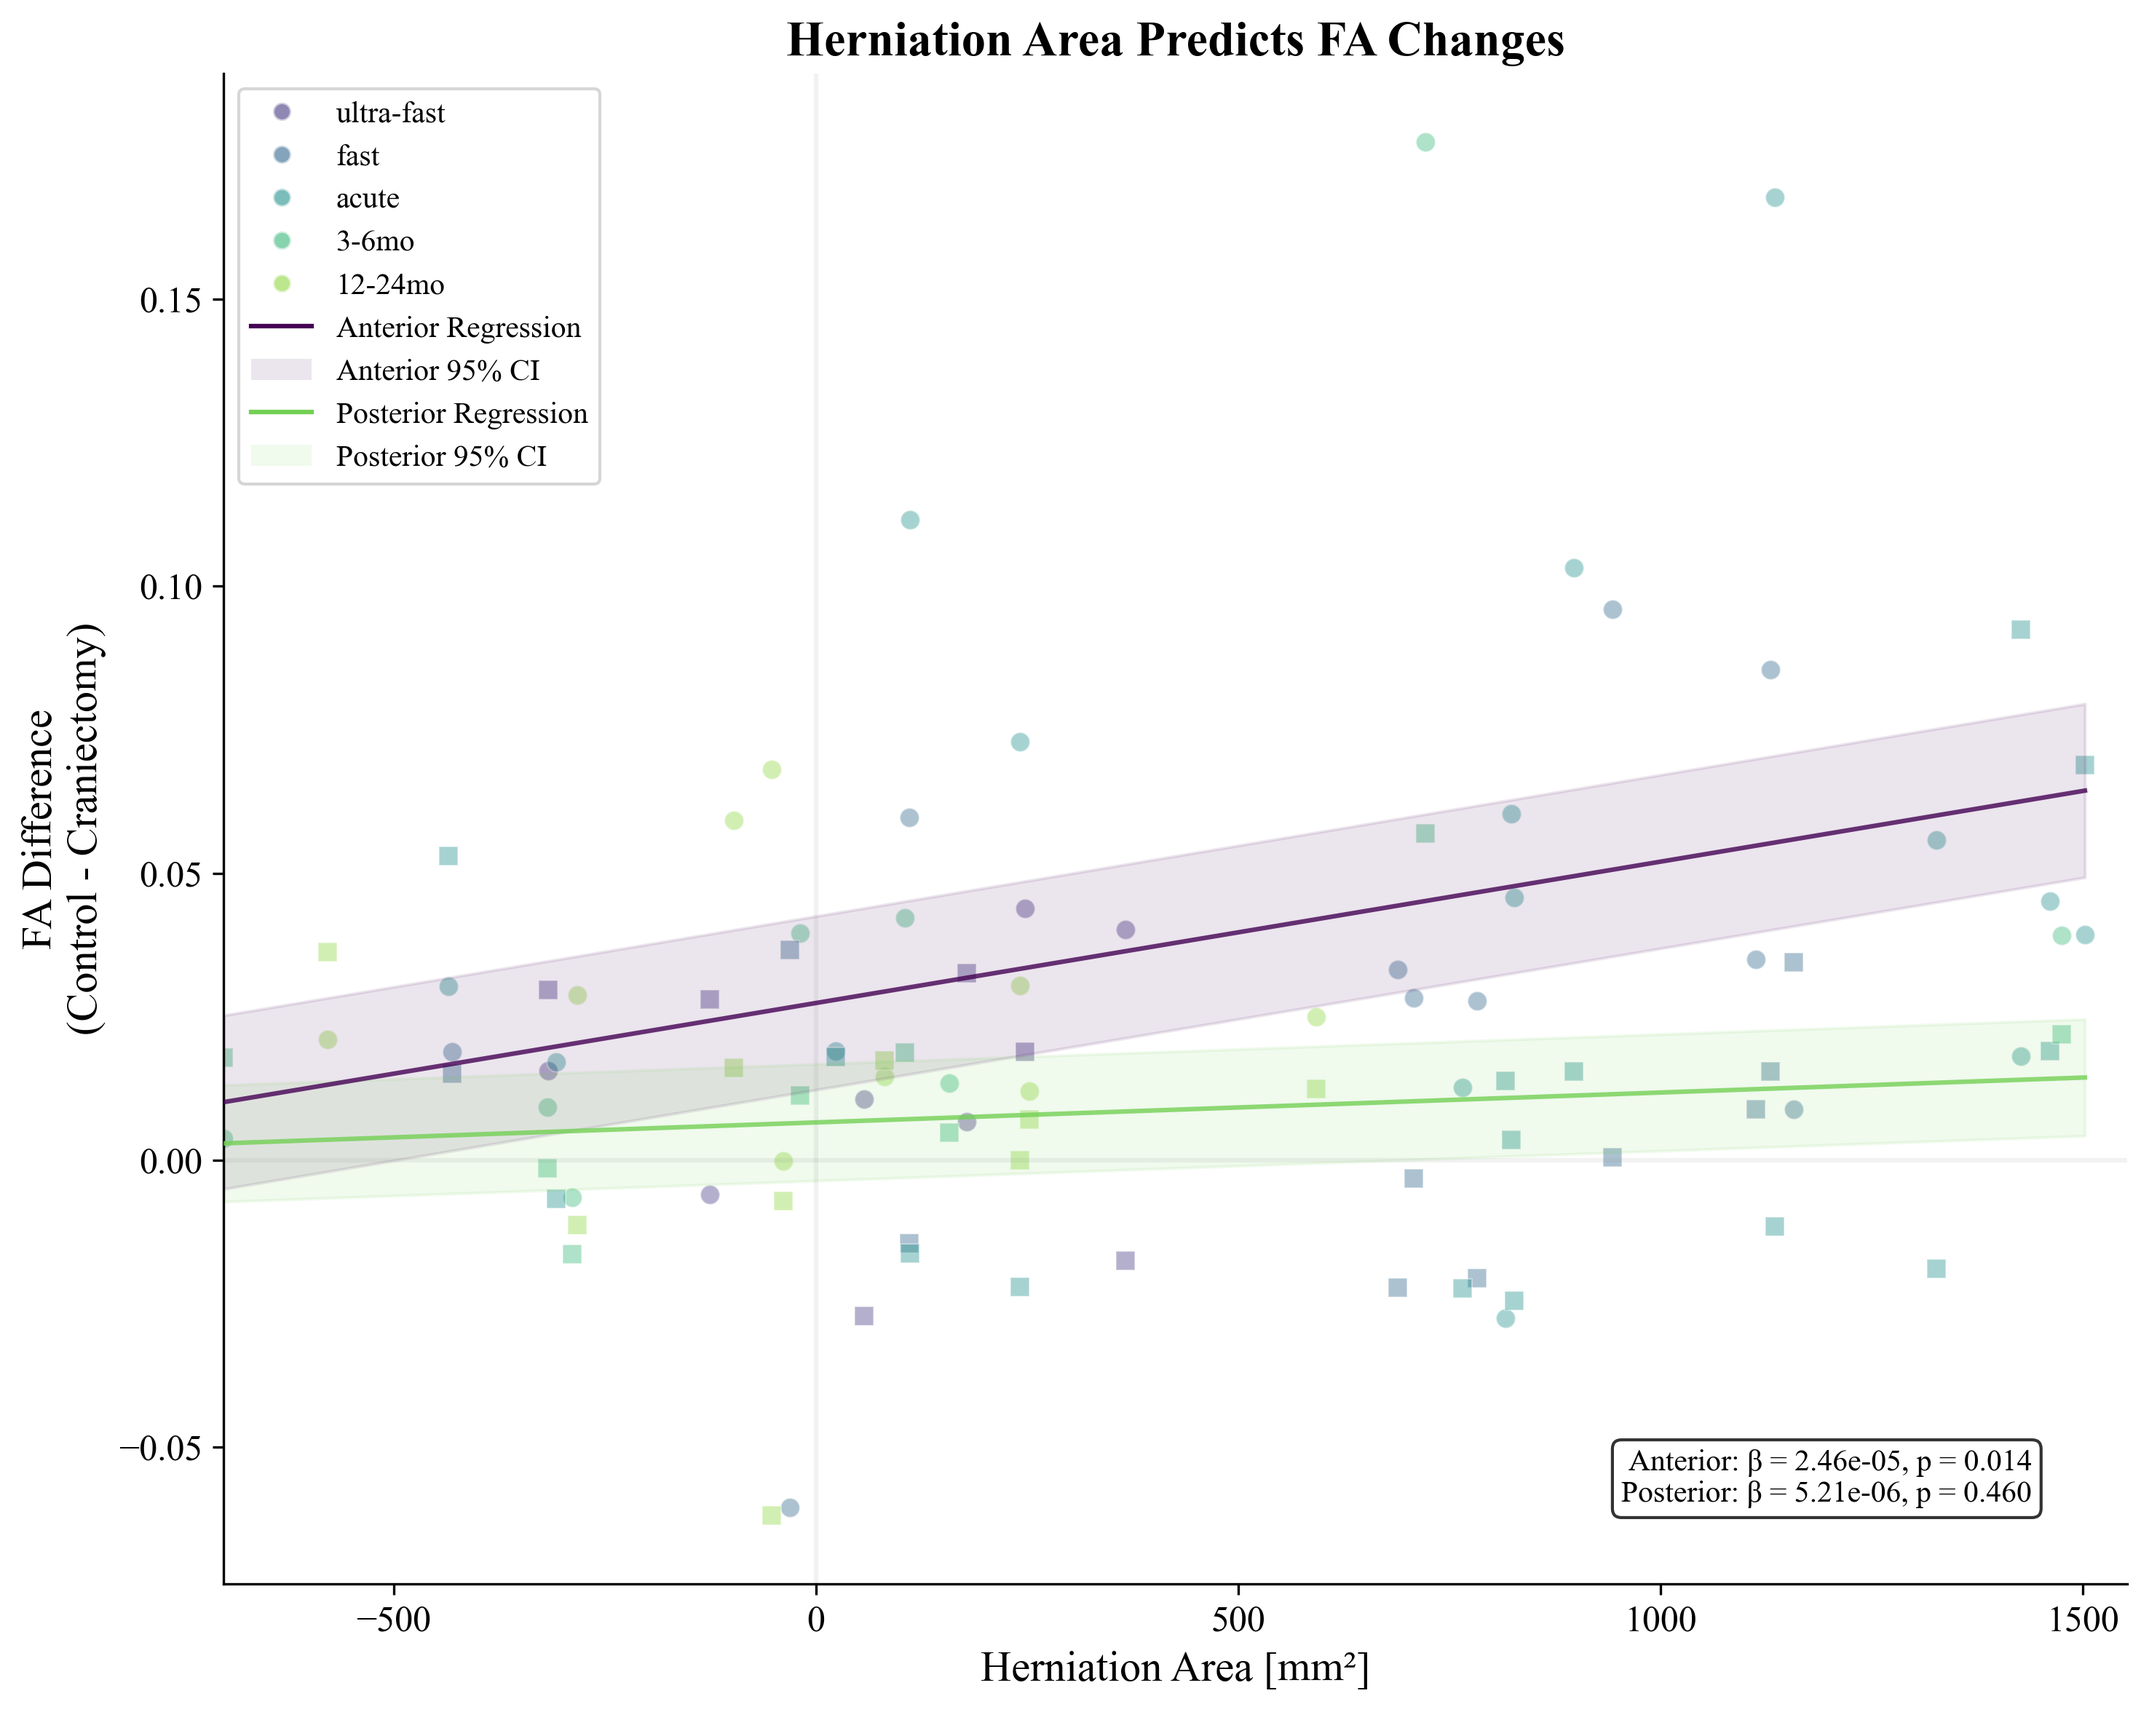
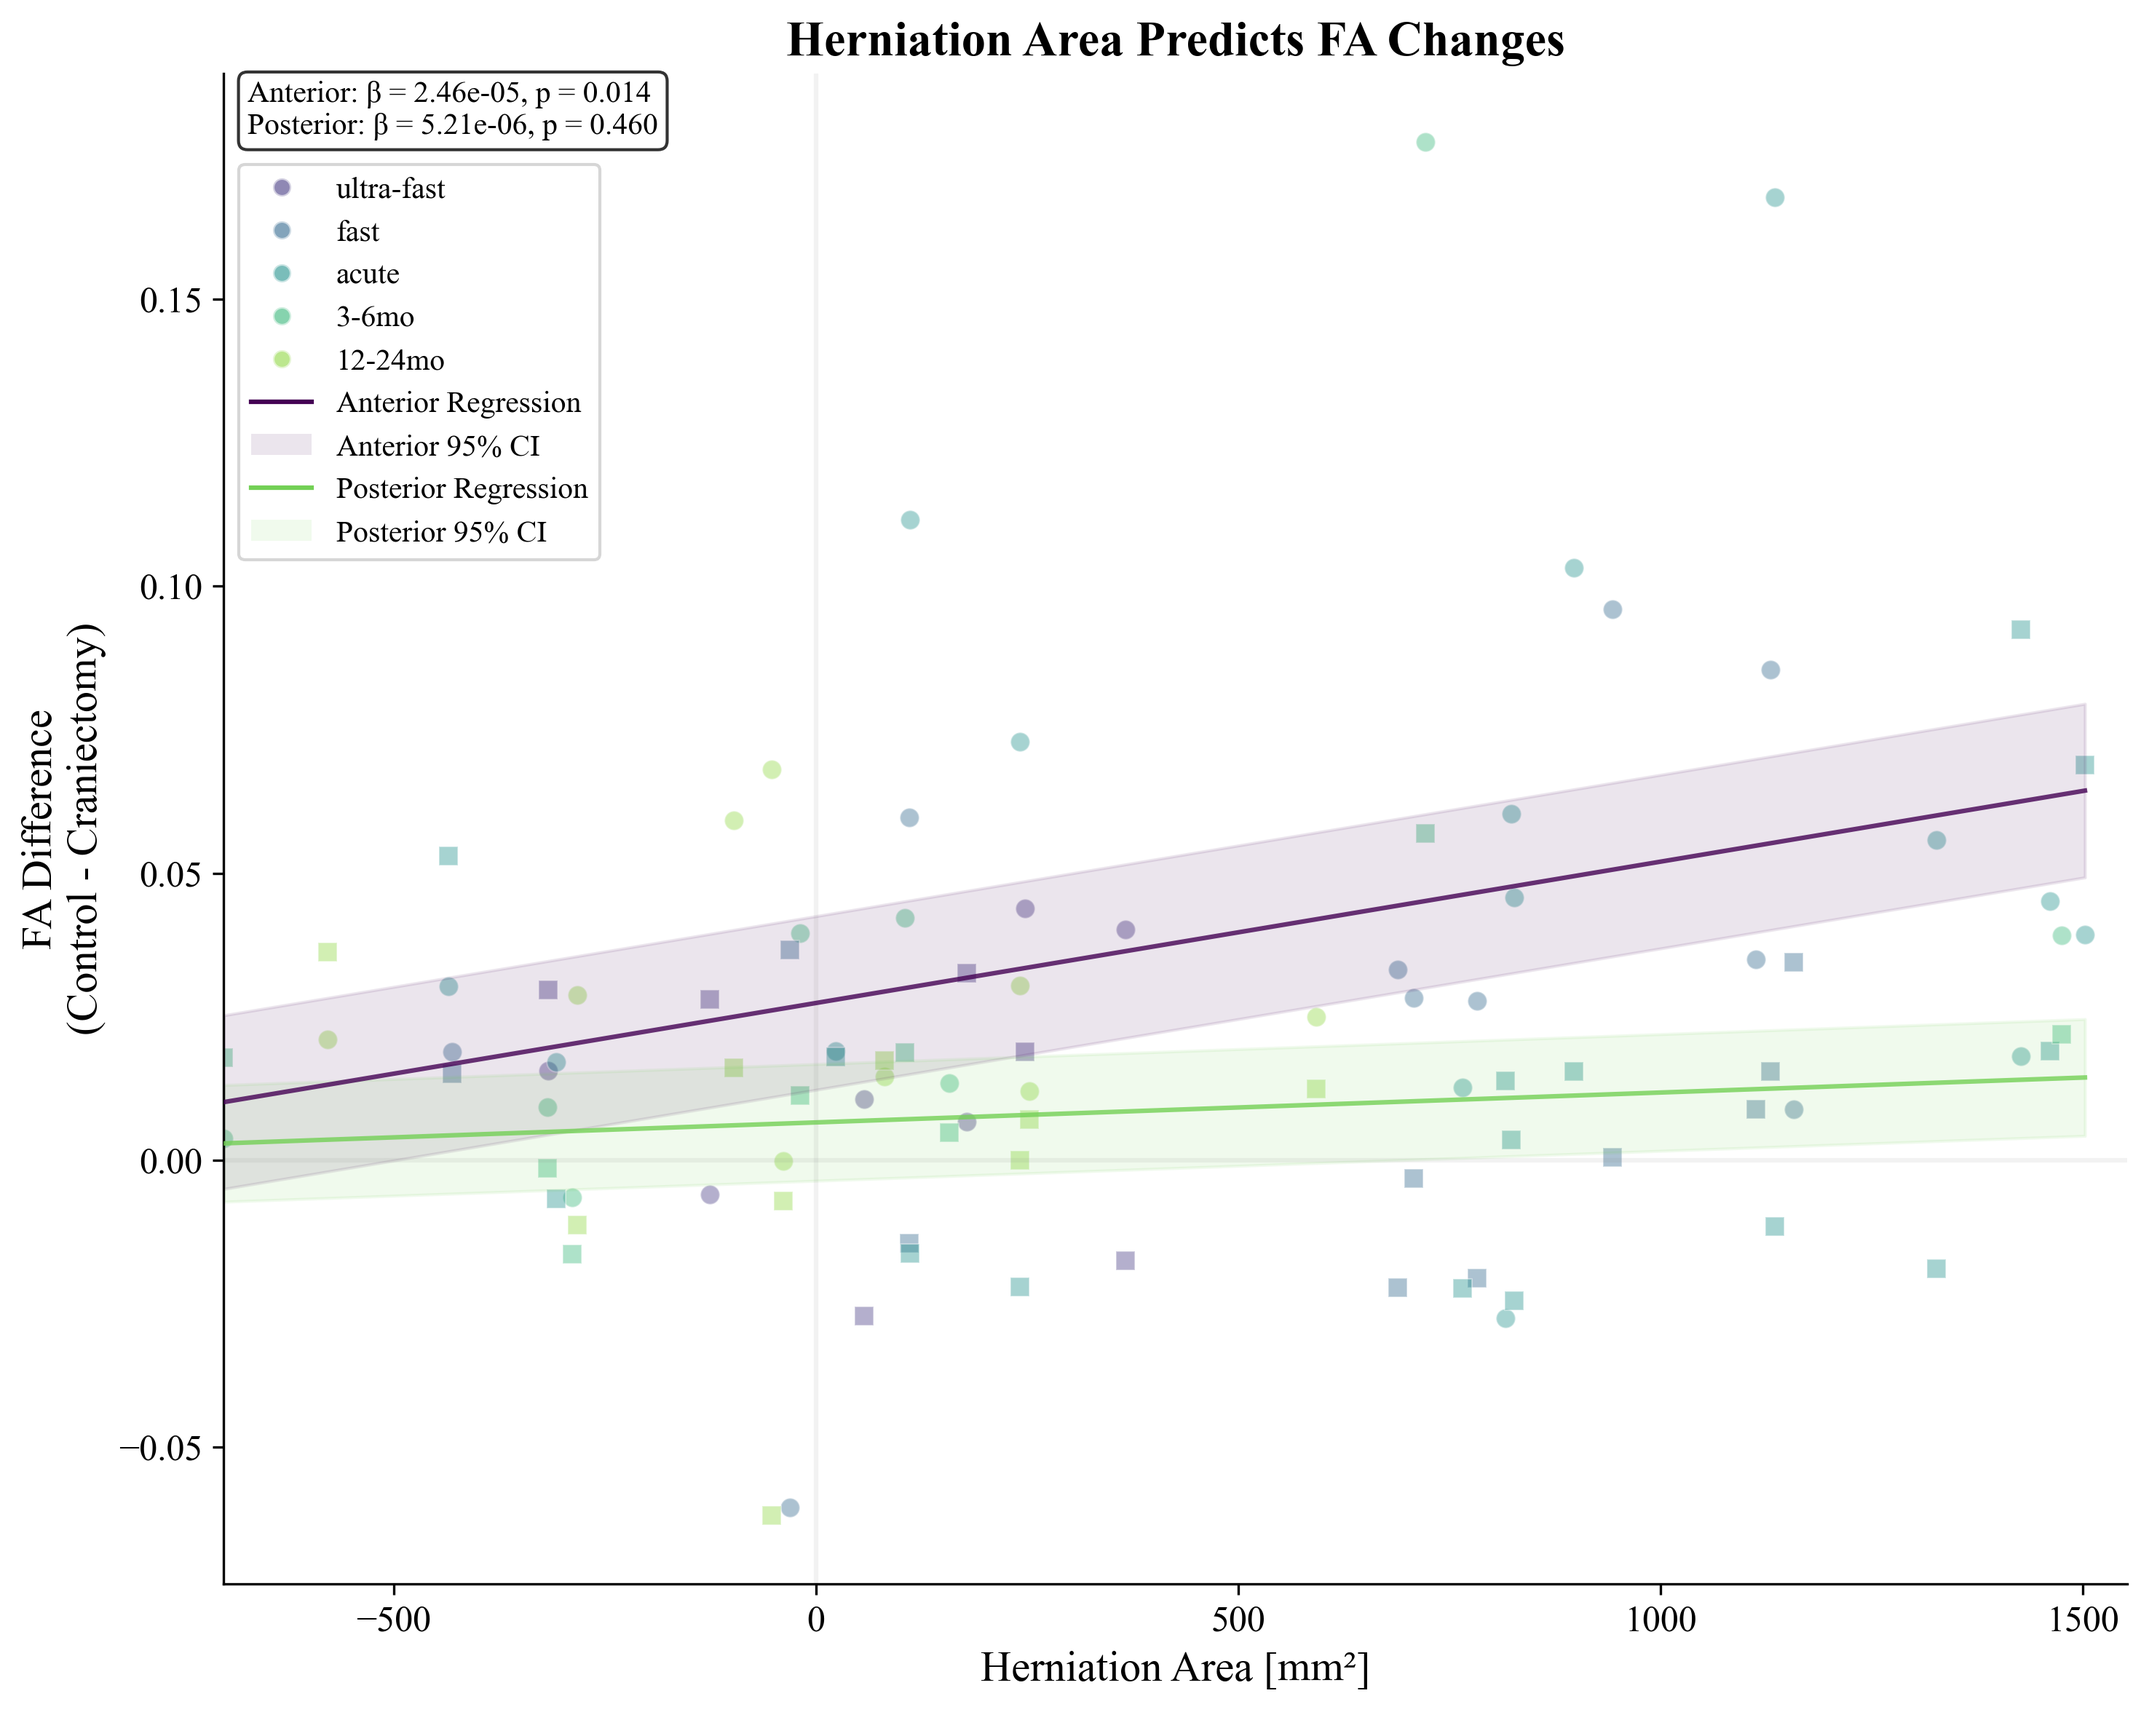
new graphs

Changed region(s): [[0.0935, 0.031, 0.3117, 0.3414], [0.748, 0.838, 0.9661, 0.9001]]

diff --git a/DTI_Processing_Scripts/dti_results_plotting_main.py b/DTI_Processing_Scripts/dti_results_plotting_main.py
@@ -995,8 +995,12 @@ def create_area_predicts_fa_plot(df, result4, result5, show_combined=True, timep
             stats_text = f'Anterior: β = {result4.params["area_diff"]:.2e}, p = {result4.pvalues["area_diff"]:.3f}\n'
             stats_text += f'Posterior: β = {result5.params["area_diff"]:.2e}, p = {result5.pvalues["area_diff"]:.3f}'
             
-            ax.text(0.95, 0.05, stats_text, transform=ax.transAxes, 
-                verticalalignment='bottom', horizontalalignment='right', fontsize=10,
+            # ax.text(0.95, 0.05, stats_text, transform=ax.transAxes, 
+            #     verticalalignment='bottom', horizontalalignment='right', fontsize=10,
+            #     bbox=dict(boxstyle='round', facecolor='white', alpha=0.8))
+
+            ax.text(0.0125, 0.995, stats_text, transform=ax.transAxes, 
+                verticalalignment='top', horizontalalignment='left', fontsize=10,
                 bbox=dict(boxstyle='round', facecolor='white', alpha=0.8))
         
         # Formatting
@@ -1024,13 +1028,14 @@ def create_area_predicts_fa_plot(df, result4, result5, show_combined=True, timep
             plt.Rectangle((0,0),1,1, facecolor='#73D055', alpha=0.1, label='Posterior 95% CI')
         ]
 
-        ax.legend(handles=legend_elements, fontsize=10, loc='upper left')
+        ax.legend(handles=legend_elements, fontsize=10, loc='upper left', 
+                  bbox_to_anchor=(0, 0.95))
         
     else:
         # Separate subplots - create two separate figures
         
         # Figure 1: Anterior
-        fig1, ax1 = plt.subplots(1, 1, figsize=(8, 6))
+        fig1, ax1 = plt.subplots(1, 1, figsize=(10, 8))
         anterior_data = df.dropna(subset=['fa_anterior_diff', 'area_diff'])
         
         # Plot anterior data (circles) - colored by timepoint
@@ -1067,12 +1072,14 @@ def create_area_predicts_fa_plot(df, result4, result5, show_combined=True, timep
             
             # Add statistics
             stats_text = f'β = {slope_ant:.2e}\np = {result4.pvalues["area_diff"]:.3f}'
-            ax1.text(0.05, 0.95, stats_text, transform=ax1.transAxes,
-                    verticalalignment='top', fontsize=10,
-                    bbox=dict(boxstyle='round', facecolor='white', alpha=0.8))
+            ax1.text(0.0125, 0.995, stats_text, transform=ax1.transAxes, 
+                verticalalignment='top', horizontalalignment='left', fontsize=10,
+                bbox=dict(boxstyle='round', facecolor='white', alpha=0.8))
+
+                    
         
         ax1.set_xlabel('Herniation Area [mm²]', fontsize=12)
-        ax1.set_ylabel('FA Anterior Difference\n(Control - Craniectomy)', fontsize=12)
+        ax1.set_ylabel('Anterior FA Difference\n(Control - Craniectomy)', fontsize=12)
         ax1.set_title('Anterior FA vs Herniation Area', fontsize=14, fontweight='bold')
         ax1.grid(False)
         ax1.axhline(y=0, color='gray', linestyle='-', alpha=0.1)
@@ -1088,7 +1095,8 @@ def create_area_predicts_fa_plot(df, result4, result5, show_combined=True, timep
             Line2D([0], [0], color='#440154', linewidth=2, label='Anterior Regression'),
             plt.Rectangle((0,0),1,1, facecolor='#440154', alpha=0.2, label='Anterior 95% CI')
         ]
-        ax1.legend(handles=legend_elements, fontsize=10, loc='upper left')
+        ax1.legend(handles=legend_elements, fontsize=10, loc='upper left', 
+                  bbox_to_anchor=(0, 0.95))
         
         plt.tight_layout()
         
@@ -1098,7 +1106,7 @@ def create_area_predicts_fa_plot(df, result4, result5, show_combined=True, timep
         plt.close()
         
         # Figure 2: Posterior
-        fig2, ax2 = plt.subplots(1, 1, figsize=(8, 6))
+        fig2, ax2 = plt.subplots(1, 1, figsize=(10, 8))
         posterior_data = df.dropna(subset=['fa_posterior_diff', 'area_diff'])
         
         # Plot posterior data (squares) - colored by timepoint
@@ -1132,12 +1140,12 @@ def create_area_predicts_fa_plot(df, result4, result5, show_combined=True, timep
             
             # Add statistics
             stats_text = f'β = {slope_post:.2e}\np = {result5.pvalues["area_diff"]:.3f}'
-            ax2.text(0.05, 0.95, stats_text, transform=ax2.transAxes,
-                    verticalalignment='top', fontsize=10,
-                    bbox=dict(boxstyle='round', facecolor='white', alpha=0.8))
+            ax2.text(0.0125, 0.995, stats_text, transform=ax2.transAxes, 
+                verticalalignment='top', horizontalalignment='left', fontsize=10,
+                bbox=dict(boxstyle='round', facecolor='white', alpha=0.8))
         
         ax2.set_xlabel('Herniation Area [mm²]', fontsize=12)
-        ax2.set_ylabel('FA Posterior Difference\n(Control - Craniectomy)', fontsize=12)
+        ax2.set_ylabel('Posterior FA Difference\n(Control - Craniectomy)', fontsize=12)
         ax2.set_title('Posterior FA vs Herniation Area', fontsize=14, fontweight='bold')
         ax2.grid(False)
         ax2.axhline(y=0, color='gray', linestyle='-', alpha=0.1)
@@ -1152,7 +1160,8 @@ def create_area_predicts_fa_plot(df, result4, result5, show_combined=True, timep
             Line2D([0], [0], color='#73D055', linewidth=2, label='Posterior Regression'),
             plt.Rectangle((0,0),1,1, facecolor='#73D055', alpha=0.2, label='Posterior 95% CI')
         ]
-        ax2.legend(handles=legend_elements, fontsize=10, loc='upper left')
+        ax2.legend(handles=legend_elements, fontsize=10, loc='upper left', 
+                  bbox_to_anchor=(0, 0.95))
         
         plt.tight_layout()
         
